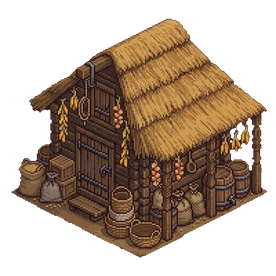
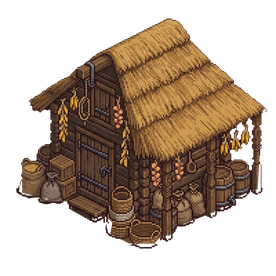
Хутір: стала швидкість селянина, шлях у логіці гри, гойдалка, спрайти без землі
Claude-Session: https://claude.ai/code/session_01QbSGMrSJLDjAsZmBx5QAUW

diff --git a/ads/khutir/game.js b/ads/khutir/game.js
@@ -355,7 +355,7 @@
     if (!lookDraft || lookDraft.u !== villFor) lookDraft = { u: villFor, c: { ...v.c } };
     const c = lookDraft.c, r = (K.routes(s)[villFor] || []);
     let h = '<div class="row" style="justify-content:center;background:linear-gradient(#9FD07A,#6DAF4E)"><canvas id="villPv" width="120" height="140" style="width:120px;height:140px" aria-label="Вигляд селянина"></canvas></div>';
-    h += '<div class="row"><span class="ic">🧺</span><span class="tx"><b>Обходить ' + r.length + ' з ' + K.route(v) + ' будівель · кошик ' + K.basket(v) + '</b><small>обхід за ' + secs(K.tripMs(v)) + ' · усього приніс ' + fmt(v.got || 0) + '. Носить урожай у комору й ставить роботу в черги цих будівель.</small></span></div>';
+    h += '<div class="row"><span class="ic">🧺</span><span class="tx"><b>Обходить ' + r.length + ' з ' + K.route(v) + ' будівель · кошик ' + K.basket(v) + '</b><small>обхід за ' + secs(K.tripOf(s, villFor, r)) + ' · усього приніс ' + fmt(v.got || 0) + '. Носить урожай у комору й ставить роботу в черги цих будівель.</small></span></div>';
     const md = K.mood(v), restS = K.restSpot(s, v);
     h += '<div class="row"><span class="ic">' + (v.rt ? '💤' : md >= 60 ? '😊' : md >= 30 ? '😐' : '😩') + '</span><span class="tx"><b>' + (v.rt ? 'Відпочиває' : 'Настрій: ' + Math.round(md)) + '</b><small>' + (md >= 60 ? 'Працює на 20% швидше' : md >= 30 ? 'Працює звичайно' : 'Втомився: працює на 30% повільніше') + (restS ? '. Коли втомиться, піде відпочити.' : '. Постав лавку, гойдалку чи копицю: без них він не відпочиває.') + '</small><span class="cap"><i style="width:' + md + '%"></i></span></span></div>';
     if (!mine) return h;
@@ -827,6 +827,19 @@
     q.fillStyle = '#2A1C14'; for (const [x, y] of e) q.fillRect(x, y, 1, 1);
     return (decoCache[k] = c);
   }
+  // гойдалка: мотузки й сидіння малюються кодом, щоб рухатись разом із селянином
+  const SW = {"t1": [-2.8, -34.0], "t2": [3.0, -35.7], "s1": [-4.8, -12.3], "s2": [3.3, -15.8], "s3": [6.1, -14.3], "s4": [-1.6, -9.0]};
+  const swingOff = (t) => { const a = Math.sin(t / 420); return [9 * a, 4.5 * a - Math.abs(a) * 1.5]; };
+  function drawSwing(X, Y, z, flip, a) {
+    g.save(); g.translate(X, Y); g.scale((flip ? -1 : 1) * z, z); const [dx, dy] = a, sp = (p) => [p[0] + dx, p[1] + dy];
+    g.lineCap = 'butt'; g.strokeStyle = '#8A6A3F'; g.lineWidth = 1;
+    const lineTo = (t0, q) => { g.beginPath(); g.moveTo(t0[0], t0[1]); g.lineTo(q[0], q[1]); g.stroke(); };
+    lineTo(SW.t2, sp([(SW.s2[0] + SW.s3[0]) / 2, (SW.s2[1] + SW.s3[1]) / 2]));
+    lineTo(SW.t1, sp([(SW.s1[0] + SW.s4[0]) / 2, (SW.s1[1] + SW.s4[1]) / 2]));
+    const c = [SW.s1, SW.s2, SW.s3, SW.s4].map(sp);
+    g.fillStyle = '#B98A5A'; g.strokeStyle = '#5E3C1E'; g.lineWidth = 0.7; g.beginPath(); c.forEach((q, i) => (i ? g.lineTo(q[0], q[1]) : g.moveTo(q[0], q[1]))); g.closePath(); g.fill(); g.stroke();
+    g.restore();
+  }
   function drawDecor(s, x, y, X, Y, z, t) {
     const k = s.d[K.idx(x, y)];
     if (k === 'path' || k === 'stone') return;
@@ -836,6 +849,7 @@
     if (SPR['d_' + k] || k === 'bench') {
       const dr = (s.dr && s.dr[K.idx(x, y)]) || 0, key = k === 'bench' ? 'd_bench' + (dr >= 2 ? 1 : 0) : 'd_' + k;
       if (dr % 2) { g.save(); g.translate(X, Y); g.scale(-1, 1); sprite(key, 0, 2 * z, z); g.restore(); } else sprite(key, X, Y + 2 * z, z);
+      if (k === 'swing') { const on = sitting.has(K.idx(x, y)); let o = on ? swingOff(t) : [0, 0]; if (dr % 2) o = [-o[0], o[1]]; drawSwing(X, Y + 2 * z, z, dr % 2, o); }
       return;
     }
     const im = pxDeco(k), c = 0.75 * z; g.imageSmoothingEnabled = false; g.drawImage(im, X - 16 * c, Y - 36 * c, 32 * c, 40 * c); g.imageSmoothingEnabled = true;
@@ -1004,73 +1018,27 @@
   // де селянин зараз: хата → будівлі маршруту → хата; на кожній будівлі трохи стоїть
   function villPos(s, uid, rts, t, dt) {
     const v = s.vl[uid], h = v && s.b.find((b) => b.id === v.home); if (!h) return null;
-    const r = rts[uid] || [], trip = K.tripMs(v);
-    if (!r.length) { const a = t / 2600 + uid.length; return { x: h.x + 0.45 + Math.cos(a) * 0.25, y: h.y + 0.35 + Math.sin(a) * 0.25, walk: true, dir: Math.cos(a + 1.57) > 0 ? 1 : -1, basket: false, back: Math.cos(a) - Math.sin(a) < 0 }; }
+    const r = rts[uid] || [], F = K.speedOf(v);
     if (v.rt) {
-      const sp = K.restSpot(s, v), rl = sp && restLegs(s, h, sp);
-      if (rl) {
-        const ph = ((v.vp + dt) % trip) / trip;
-        if (ph < 0.2 || ph >= 0.8) { const out = ph < 0.2, q = alongLeg(out ? rl : rl.slice().reverse(), out ? ph / 0.2 : (ph - 0.8) / 0.2); return { x: q[0], y: q[1], walk: true, dir: q[2] - q[3] >= 0 ? 1 : -1, basket: false, back: q[2] + q[3] < 0 }; }
-        const dr = (s.dr && s.dr[sp.i]) || 0; return { x: sp.x, y: sp.y, walk: false, sit: true, swing: sp.k === 'swing', dir: dr % 2 ? -1 : 1, basket: false, back: sp.k === 'bench' && dr >= 2 };
+      const q = K.restPlan(s, v), T = K.tripOf(s, uid, r);
+      if (q) {
+        const ms = (q.len * 1000) / K.WALK / F, tt = (v.vp + dt) % T, out = tt < ms, ret = tt > T - ms;
+        if (out || ret) { const c = alongLeg(out ? q.pts : q.pts.slice().reverse(), out ? tt / ms : (tt - (T - ms)) / ms); return { x: c[0], y: c[1], walk: true, dir: c[2] - c[3] >= 0 ? 1 : -1, basket: false, back: c[2] + c[3] < 0 }; }
+        const dr = (s.dr && s.dr[q.sp.i]) || 0; return { x: q.sp.x, y: q.sp.y, walk: false, sit: true, swing: q.sp.k === 'swing', dir: dr % 2 ? -1 : 1, basket: false, back: q.sp.k === 'bench' && dr >= 2 };
       }
     }
-    const legs = villLegs(s, h, r), segs = legs.length;
-    const f = (((v.vp + dt) % trip) / trip) * segs, i = Math.min(segs - 1, Math.floor(f)), fr = f - i;
-    const w = Math.min(1, fr / 0.75), pos = alongLeg(legs[i], w);
-    return { x: pos[0], y: pos[1], walk: fr < 0.75, dir: pos[2] - pos[3] >= 0 ? 1 : -1, basket: i > 0 && i <= r.length, back: fr < 0.75 && pos[2] + pos[3] < 0 };
-  }
-  // ---------- стежки селянина: обходить будівлі, дерева й тин, любить дороги ----------
-  // Клітинка зайнята, якщо там будівля, дерево, камінь або прикраса (крім доріг).
-  function blockedSet(s) {
-    const o = new Set(); for (const b of s.b) o.add(K.idx(b.x, b.y));
-    for (const i in s.ob) o.add(+i);
-    for (const i in s.d) if (s.d[i] !== 'path' && s.d[i] !== 'stone') o.add(+i);
-    return o;
-  }
-  const edgeShut = (s, x, y, dx, dy) => (dx ? s.f[K.fenceKey(dx > 0 ? x : x - 1, y, 0)] : s.f[K.fenceKey(x, dy > 0 ? y : y - 1, 1)]);
-  // пошук від клітинки до будь-якої з goals; повертає список клітинок або null
-  function findTiles(s, blocked, from, goals) {
-    const start = K.idx(from[0], from[1]), gs = new Set(goals.map((g2) => K.idx(g2[0], g2[1])));
-    if (gs.has(start)) return [from];
-    const cost = new Map([[start, 0]]), prev = new Map(), open = [[0, start]];
-    while (open.length) {
-      let m = 0; for (let i = 1; i < open.length; i++) if (open[i][0] < open[m][0]) m = i;
-      const [c, cur] = open.splice(m, 1)[0]; if (c > cost.get(cur)) continue;
-      if (gs.has(cur)) { const out = []; for (let q = cur; q !== undefined; q = prev.get(q)) out.unshift([q % N, Math.floor(q / N)]); return out; }
-      const x = cur % N, y = Math.floor(cur / N);
-      for (const [dx, dy] of [[1, 0], [-1, 0], [0, 1], [0, -1]]) {
-        const X = x + dx, Y = y + dy; if (X < 0 || Y < 0 || X >= N || Y >= N) continue;
-        const n = K.idx(X, Y); if (blocked.has(n) || edgeShut(s, x, y, dx, dy)) continue;
-        const nc = c + (s.d[n] === 'path' || s.d[n] === 'stone' ? 0.55 : 1);
-        if (nc < (cost.has(n) ? cost.get(n) : 1e9)) { cost.set(n, nc); prev.set(n, cur); open.push([nc, n]); }
-      }
+    const plan = K.walkPlan(s, uid, r), T = plan.ms / F;
+    if (!r.length || !plan.legs.length) { const a = t / 2600 + uid.length; return { x: h.x + 0.45 + Math.cos(a) * 0.25, y: h.y + 0.35 + Math.sin(a) * 0.25, walk: true, dir: Math.cos(a + 1.57) > 0 ? 1 : -1, basket: false, back: Math.cos(a) - Math.sin(a) < 0 }; }
+    // ідемо за часом: кожна ділянка триває стільки, скільки її довжина за сталої швидкості
+    let tt = (v.vp + dt) % T;
+    for (const l of plan.legs) {
+      const w = (l.len * 1000) / K.WALK / F, pz = K.PAUSE / F;
+      if (tt < w) { const c = alongLeg(l.pts, w ? tt / w : 1); return { x: c[0], y: c[1], walk: true, dir: c[2] - c[3] >= 0 ? 1 : -1, basket: l.bk, back: c[2] + c[3] < 0 }; }
+      tt -= w;
+      if (tt < pz) { const e = l.pts[l.pts.length - 1], c0 = l.pts[l.pts.length - 2]; return { x: e[0], y: e[1], walk: false, dir: e[0] - c0[0] - (e[1] - c0[1]) >= 0 ? 1 : -1, basket: l.bk, back: false }; }
+      tt -= pz;
     }
-    return null;
-  }
-  const around = (t, blocked) => [[1, 0], [0, 1], [-1, 0], [0, -1]].map(([a, b]) => [t.x + a, t.y + b]).filter(([x, y]) => x >= 0 && y >= 0 && x < N && y < N && !blocked.has(K.idx(x, y)));
-  const legCache = new Map();
-  function villLegs(s, h, r) {
-    const key = h.id + '|' + r.map((b) => b.id).join() + '|' + s.b.map((b) => b.x + '.' + b.y).join() + '|' + Object.keys(s.ob).length + '|' + Object.keys(s.d).length + '|' + Object.keys(s.f).length;
-    const hit = legCache.get(h.id); if (hit && hit.key === key) return hit.legs;
-    const barn = s.b.find((b) => b.k === 'barn'), stops = r.length && barn ? r.concat([barn]) : r;   // із кошиком — у комору, потім додому
-    const blocked = blockedSet(s), straight = () => { const pts = [h].concat(stops, [h]), o = []; for (let i = 0; i + 1 < pts.length; i++) o.push([[pts[i].x + 0.42, pts[i].y + 0.42], [pts[i + 1].x + 0.42, pts[i + 1].y + 0.42]]); return o; };
-    // виходить із того боку хати, звідки весь обхід найкоротший, і туди ж повертається
-    let legs = null, best = 1e9;
-    for (const door of around(h, blocked)) {
-      const mid = (a, t) => [(a[0] + t.x) / 2, (a[1] + t.y) / 2], o = []; let cur = door, p = mid(door, h), ok = true, total = 0;
-      for (const t of stops.concat([h])) {
-        const goals = t === h ? [door] : around(t, blocked), tiles = goals.length ? findTiles(s, blocked, cur, goals) : null;
-        if (!tiles) { ok = false; break; }
-        total += tiles.length; cur = tiles[tiles.length - 1]; const e = mid(cur, t); o.push([p].concat(tiles, [e])); p = e;
-      }
-      if (ok && total < best) { best = total; legs = o; }
-    }
-    legs = legs || straight(); legCache.set(h.id, { key, legs }); return legs;
-  }
-  function restLegs(s, h, sp) {
-    const blocked = blockedSet(s), door = around(h, blocked)[0], goals = around(sp, blocked); if (!door || !goals.length) return null;
-    const tiles = findTiles(s, blocked, door, goals); if (!tiles) return null;
-    return [[(door[0] + h.x) / 2, (door[1] + h.y) / 2]].concat(tiles, [[sp.x, sp.y]]);
+    const e = plan.legs[0].pts[0]; return { x: e[0], y: e[1], walk: false, dir: 1, basket: false, back: false };
   }
   // точка на ламаній за часткою шляху; два останні числа — напрямок кроку
   function alongLeg(pts, w) {
@@ -1082,11 +1050,11 @@
     }
     return [pts[0][0], pts[0][1], 1, 0];
   }
-  let vpos = [], lights = [], bubbles = [], marks = [];
+  let vpos = [], lights = [], bubbles = [], marks = []; const sitting = new Set();
   function drawVill(p, s, z, t) {
     const X = sx(p.x, p.y), Y = sy(p.x, p.y), v = s.vl[p.uid];
-    const lift = p.sit ? (p.swing ? Math.sin(t / 420) * 3 * z : 0) : 0;
-    drawVillager(g, X + lift, Y - (p.sit ? 6 * z : 0), 1.25 * z, v.c, t, p.walk, p.dir, p.basket, p.back, p.sit);
+    const so = p.swing ? swingOff(t) : [0, 0], flipS = p.swing && p.dir < 0 ? -1 : 1;
+    drawVillager(g, X + so[0] * flipS * z, Y + so[1] * z - (p.sit ? (p.swing ? 10 : 6) * z : 0), 1.25 * z, v.c, t, p.walk, p.dir, p.basket, p.back, p.sit);
     if (p.sit) bubbles.push([X, Y - 8 * z, z * 0.7, '💤', 1]);
     vpos.push({ uid: p.uid, sx: X, sy: Y });
     const nt = darkness(t); if (nt.dark > 0.2) lights.push([X + 7 * z * p.dir, Y - 14 * z, 0.45]);
@@ -1113,8 +1081,8 @@
     const s = view, z = cam.z, t = now(), dt = t - viewAt;
     const bmap = new Map(); for (const b of s.b) bmap.set(K.idx(b.x, b.y), b);
     const bon = K.bonuses(s), rts = K.routes(s), vByTile = new Map();
-    lights = []; vpos = []; bubbles = []; marks = [];
-    for (const uid of s.vo || []) { const p = villPos(s, uid, rts, t, dt); if (!p) continue; p.uid = uid; const key = Math.floor(p.x + 0.5) + Math.floor(p.y + 0.5); if (!vByTile.has(key)) vByTile.set(key, []); vByTile.get(key).push(p); }
+    lights = []; vpos = []; bubbles = []; marks = []; sitting.clear();
+    for (const uid of s.vo || []) { const p = villPos(s, uid, rts, t, dt); if (!p) continue; p.uid = uid; if (p.sit) sitting.add(K.idx(p.x, p.y)); const key = Math.floor(p.x + 0.5) + Math.floor(p.y + 0.5); if (!vByTile.has(key)) vByTile.set(key, []); vByTile.get(key).push(p); }
     const ownedSet = new Set(s.ch);
     const buyable = new Set();
     for (const c of s.ch) { const x = c % K.NC, y = Math.floor(c / K.NC); for (const [dx, dy] of [[1, 0], [-1, 0], [0, 1], [0, -1]]) { const X = x + dx, Y = y + dy; if (X >= 0 && Y >= 0 && X < K.NC && Y < K.NC && !ownedSet.has(Y * K.NC + X)) buyable.add(Y * K.NC + X); } }
@@ -1320,7 +1288,7 @@
   // ================= тест-хук =================
   window.KHUTIR = {
     get S() { return S; }, get view() { return view; }, get mode() { return mode; }, get code() { return code; }, get cam() { return cam; },
-    villLegs(uid) { const s = view, v = s.vl[uid], h = s.b.find((b) => b.id === v.home); return villLegs(s, h, K.routes(s)[uid] || []); }, fenceAtPoint, fenceLine, get draftN() { return draft.size; }, get buildOn() { return buildOn; }, get histN() { return hist.length; }, get redoN() { return redo.length; }, commit, tapTile, warp(ms) { warp += ms; refreshView(true); }, refresh() { refreshView(true); }, startSolo, openShared, showMenu, go, closeSheet,
+    villLegs(uid) { return K.walkPlan(view, uid, K.routes(view)[uid] || []).legs.map((l) => l.pts); }, fenceAtPoint, fenceLine, get draftN() { return draft.size; }, get buildOn() { return buildOn; }, get histN() { return hist.length; }, get redoN() { return redo.length; }, commit, tapTile, warp(ms) { warp += ms; refreshView(true); }, refresh() { refreshView(true); }, startSolo, openShared, showMenu, go, closeSheet,
     pxFrame, K, screenOf(x, y) { return [sx(x, y), sy(x, y)]; }, get vpos() { return vpos; }, darkness, DAY, focus(x, y) { cam.x = wx(x, y); cam.y = wy(x, y); }, get sheetOpen() { return !!sheetFn; }, get placing() { return placing; }, me,
   };
 

diff --git a/ads/khutir/sim.js b/ads/khutir/sim.js
@@ -99,7 +99,9 @@
   const mood = (v) => (v.m === undefined ? 80 : v.m);
   const moodF = (v) => (mood(v) >= 60 ? 1.2 : mood(v) >= 30 ? 1 : 0.7);
   const REST = ['bench', 'swing', 'hay'];
-  const tripMs = (v) => ((8000 + 3000 * route(v)) / (1 + 0.2 * (v.u.sp || 0)) / moodF(v)) * (v.rt ? 3 : 1);
+  // Швидкість стала: час обходу — це довжина справжнього шляху, а не навпаки
+  const WALK = 1.6, PAUSE = 800, SIT = 20000;           // клітинок за секунду, зупинка біля будівлі (мс), відпочинок (мс)
+  const speedOf = (v) => (1 + 0.2 * (v.u.sp || 0)) * moodF(v);
   function restSpots(s) { const o = []; for (const i in s.d || {}) if (REST.indexOf(s.d[i]) >= 0) o.push({ x: i % N, y: Math.floor(i / N), k: s.d[i], i: +i }); return o; }
   // найближче до хати місце відпочинку
   function restSpot(s, v) {
@@ -107,6 +109,69 @@
     if (h) for (const q of restSpots(s)) { const d = Math.abs(q.x - h.x) + Math.abs(q.y - h.y); if (d < bd) { bd = d; best = q; } }
     return best;
   }
+  // ---------- стежки: обходить будівлі, дерева й тин, любить дороги, поля переходить неохоче ----------
+  function blockedSet(s) {
+    const o = new Set(), soft = new Set();
+    for (const b of s.b) (b.k === 'field' ? soft : o).add(idx(b.x, b.y));
+    for (const i in s.ob) o.add(+i);
+    for (const i in s.d) if (s.d[i] !== 'path' && s.d[i] !== 'stone') o.add(+i);
+    return { o, soft };
+  }
+  const edgeShut = (s, x, y, dx, dy) => (dx ? (s.f || {})[fenceKey(dx > 0 ? x : x - 1, y, 0)] : (s.f || {})[fenceKey(x, dy > 0 ? y : y - 1, 1)]);
+  function findTiles(s, bl, from, goals) {
+    const start = idx(from[0], from[1]), gs = new Set(goals.map((q) => idx(q[0], q[1])));
+    if (gs.has(start)) return [from];
+    const cost = new Map([[start, 0]]), prev = new Map(), open = [[0, start]];
+    while (open.length) {
+      let m = 0; for (let i = 1; i < open.length; i++) if (open[i][0] < open[m][0]) m = i;
+      const [c, cur] = open.splice(m, 1)[0]; if (c > cost.get(cur)) continue;
+      if (gs.has(cur)) { const out = []; for (let q = cur; q !== undefined; q = prev.get(q)) out.unshift([q % N, Math.floor(q / N)]); return out; }
+      const x = cur % N, y = Math.floor(cur / N);
+      for (const [dx, dy] of [[1, 0], [-1, 0], [0, 1], [0, -1]]) {
+        const X = x + dx, Y = y + dy; if (X < 0 || Y < 0 || X >= N || Y >= N) continue;
+        const n = idx(X, Y); if (bl.o.has(n) || edgeShut(s, x, y, dx, dy)) continue;
+        const nc = c + (s.d[n] === 'path' || s.d[n] === 'stone' ? 0.55 : bl.soft.has(n) ? 3 : 1);
+        if (nc < (cost.has(n) ? cost.get(n) : 1e9)) { cost.set(n, nc); prev.set(n, cur); open.push([nc, n]); }
+      }
+    }
+    return null;
+  }
+  const around = (t, bl) => [[1, 0], [0, 1], [-1, 0], [0, -1]].map(([a, b]) => [t.x + a, t.y + b]).filter(([x, y]) => x >= 0 && y >= 0 && x < N && y < N && !bl.o.has(idx(x, y)));
+  const near = (a, t) => [a[0] + (t.x - a[0]) * 0.22, a[1] + (t.y - a[1]) * 0.22];
+  const lenOf = (pts) => { let l = 0; for (let i = 0; i + 1 < pts.length; i++) l += Math.hypot(pts[i + 1][0] - pts[i][0], pts[i + 1][1] - pts[i][1]); return l; };
+  const planCache = new Map();
+  // обхід: хата → будівлі → комора → хата. Недосяжну зупинку пропускає, решта маршруту лишається.
+  function walkPlan(s, uid, r) {
+    const v = s.vl[uid], h = v && s.b.find((b) => b.id === v.home); if (!h) return { legs: [], ms: 8000 };
+    const key = s.seed + '|' + r.map((b) => b.id).join() + '|' + s.b.map((b) => b.x + '.' + b.y).join() + '|' + Object.keys(s.ob).length + '|' + Object.keys(s.d).length + '|' + Object.keys(s.f || {}).length;
+    const hit = planCache.get(uid); if (hit && hit.key === key) return hit;
+    const barn = s.b.find((b) => b.k === 'barn'), stops = r.length && barn ? r.concat([barn]) : r, bl = blockedSet(s);
+    let legs = [], best = 1e9;
+    for (const door of around(h, bl)) {
+      const o = []; let cur = door, p = near(door, h), total = 0, carry = false;
+      for (const t of stops) {
+        const goals = around(t, bl), tiles = goals.length ? findTiles(s, bl, cur, goals) : null;
+        if (!tiles) continue;
+        cur = tiles[tiles.length - 1]; const e = near(cur, t), pts = [p].concat(tiles, [e]);
+        o.push({ pts, len: lenOf(pts), bk: carry && t !== barn }); total += lenOf(pts); p = e; carry = t === barn ? false : true;
+      }
+      const back = findTiles(s, bl, cur, [door]);
+      if (!back) continue;
+      const end = near(door, h), pts = [p].concat(back, [end]); o.push({ pts, len: lenOf(pts), bk: false }); total += lenOf(pts);
+      if (total < best) { best = total; legs = o; }
+    }
+    const ms = legs.reduce((a, l) => a + (l.len / WALK) * 1000 + PAUSE, 0) || 8000, plan = { key, legs, ms };
+    planCache.set(uid, plan); return plan;
+  }
+  function restPlan(s, v) {
+    const h = s.b.find((b) => b.id === v.home), sp = restSpot(s, v); if (!h || !sp) return null;
+    const bl = blockedSet(s), door = around(h, bl)[0], goals = around(sp, bl); if (!door || !goals.length) return null;
+    const tiles = findTiles(s, bl, door, goals); if (!tiles) return null;
+    const pts = [near(door, h)].concat(tiles, [[sp.x, sp.y]]); return { sp, pts, len: lenOf(pts) };
+  }
+  const restMs = (s, v) => { const q = restPlan(s, v); return q ? (2 * q.len * 1000) / WALK / speedOf(v) + SIT : SIT; };
+  // час обходу за стану зараз
+  function tripOf(s, uid, r) { const v = s.vl[uid]; return v.rt ? restMs(s, v) : walkPlan(s, uid, r).ms / speedOf(v); }
   function restDone(s, v) { const kinds = new Set(restSpots(s).map((q) => q.k)).size; v.m = Math.min(100, mood(v) + 40 + 20 * kinds); v.rt = 0; }
   const vupCost = (v, k) => { const L = v.u[k] || 0; return { c: Math.round(80 * Math.pow(1.9, L)), pl: L >= 1 ? 3 * L : 0 }; };
   // хто що обходить: по черзі приходу, найближчі вільні будівлі до хати
@@ -260,7 +325,8 @@
     let t = Math.max(s.t, now - MAX_AWAY);
     const bon = bonuses(s), dur = new Map(), prod = s.b.filter((b) => B[b.k].d);
     for (const b of prod) dur.set(b.id, durOf(b, bon));
-    const rts = routes(s), vs = (s.vo || []).map((u) => [s.vl[u], rts[u]]).filter(([v, r]) => v && v.home && r.length);
+    const rts = routes(s), vs = (s.vo || []).map((u) => [s.vl[u], rts[u], u]).filter(([v, r]) => v && v.home && r.length);
+    const T = (v, r, u) => tripOf(s, u, r);
     for (let guard = 0; guard < 3e6; guard++) {
       kick(s);
       if (t >= now) break;
@@ -268,17 +334,17 @@
       for (const b of prod) if (b.p >= 0) m = Math.min(m, dur.get(b.id) - b.p);
       // селянину є сенс іти, лише якщо щось росте або щось чекає в будівлях маршруту
       const busy = m !== Infinity;
-      for (const [v, r] of vs) if (busy || r.some((b) => b.buf)) m = Math.min(m, tripMs(v) - v.vp);
+      for (const [v, r, u] of vs) if (busy || v.rt || r.some((b) => b.buf)) m = Math.min(m, T(v, r, u) - v.vp);
       if (m === Infinity) break;
       const step = Math.min(Math.max(m, 0), now - t);
       for (const b of prod) if (b.p >= 0) b.p += step;
       for (const [v] of vs) v.vp += step;
       t += step;
       for (const b of prod) if (b.p >= 0 && b.p >= dur.get(b.id) - 1e-6) { b.buf += outOf(b)[1]; b.p = -1; }
-      for (const [v, r] of vs) if (v.vp >= tripMs(v) - 1e-6) { v.vp = 0; if (v.rt) restDone(s, v); else trip(s, v, r); }
+      for (const [v, r, u] of vs) if (v.vp >= T(v, r, u) - 1e-6) { v.vp = 0; if (v.rt) restDone(s, v); else trip(s, v, r); }
     }
     // поки нічого не росте й нічого не чекає — селянин удома, але годинник обходу йде далі для показу
-    if (t < now) for (const [v] of vs) v.vp = (v.vp + (now - t)) % tripMs(v);
+    if (t < now) for (const [v, r, u] of vs) v.vp = (v.vp + (now - t)) % T(v, r, u);
     s.t = now;
     return s;
   }
@@ -544,7 +610,7 @@
       case 'vup': {
         const v = s.vl && s.vl[a.uid]; if (!v || !VUP[a.k]) return fail('Нема');
         const cost = vupCost(v, a.k); if (!canAfford(s, cost)) return fail('Треба ' + fmtCost(cost));
-        pay(s, cost); v.u[a.k] = (v.u[a.k] || 0) + 1; v.vp = Math.min(v.vp, tripMs(v)); log(s, v.n, 'отримав(ла) ' + VUP[a.k].n.toLowerCase() + ' ' + v.u[a.k] + '-го рівня');
+        pay(s, cost); v.u[a.k] = (v.u[a.k] || 0) + 1; log(s, v.n, 'отримав(ла) ' + VUP[a.k].n.toLowerCase() + ' ' + v.u[a.k] + '-го рівня');
         return res;
       }
       case 'movehome': {
@@ -571,6 +637,6 @@
     return '';
   }
 
-  const api = { mood, moodF, restSpot, fenceKey, VER, MID, CROP, DECOR, outOf, qMax, beauty, tier, tierNeed, beautyBonus, market, LOOK, VUP, routes, route, basket, tripMs, vupCost, addVillager, kick, N, CH, NC, RES, B, ORDER, create, advance, act, why, storeCap, xpNeed, buildCost, upCost, hireCost, storeCost, chunkCost, capOf, durOf, bonuses, slots, owned, chunkOf, idx, at, count, ROCK, fmtCost, canAfford, MAX_AWAY };
+  const api = { mood, moodF, restSpot, restPlan, walkPlan, tripOf, speedOf, WALK, PAUSE, SIT, fenceKey, VER, MID, CROP, DECOR, outOf, qMax, beauty, tier, tierNeed, beautyBonus, market, LOOK, VUP, routes, route, basket, vupCost, addVillager, kick, N, CH, NC, RES, B, ORDER, create, advance, act, why, storeCap, xpNeed, buildCost, upCost, hireCost, storeCost, chunkCost, capOf, durOf, bonuses, slots, owned, chunkOf, idx, at, count, ROCK, fmtCost, canAfford, MAX_AWAY };
   if (typeof module !== 'undefined' && module.exports) module.exports = api; else root.KhutirSim = api;
 })(typeof window !== 'undefined' ? window : globalThis);

diff --git a/bots/local-sim/khutir-test.js b/bots/local-sim/khutir-test.js
@@ -89,7 +89,7 @@ const tapTile = async (p, x, y) => { await p.evaluate(([x, y]) => { KHUTIR.focus
   check("«Назад» закрив шторку й лишив у грі", await p.evaluate(() => !!window.KHUTIR && !KHUTIR.sheetOpen && KHUTIR.mode === "solo"));
   // тин лежить на межі: клітинка під ним вільна, а селянин його обходить
   check("тин не займає клітинку", await p.evaluate(() => { const v = KHUTIR.view; return Object.keys(v.f).length > 0 && !Object.values(v.d).includes("fence"); }));
-  const walk = await p.evaluate(() => { const uid = Object.keys(KHUTIR.view.vl)[0], s = KHUTIR.view, busy = new Set(s.b.map((b) => b.x + ":" + b.y)), legs = KHUTIR.villLegs(uid); let bad = 0, n = 0; for (const l of legs) for (const q of l.slice(1, -1)) { n++; if (busy.has(q[0] + ":" + q[1])) bad++; } return [n, bad]; });
+  const walk = await p.evaluate(() => { const uid = Object.keys(KHUTIR.view.vl)[0], s = KHUTIR.view, busy = new Set(s.b.filter((b) => b.k !== "field").map((b) => b.x + ":" + b.y)), legs = KHUTIR.villLegs(uid); let bad = 0, n = 0; for (const l of legs) for (const q of l.slice(1, -1)) { n++; if (busy.has(q[0] + ":" + q[1])) bad++; } return [n, bad]; });
   check("селянин не йде крізь будівлі", walk[0] > 0 && walk[1] === 0, JSON.stringify(walk));
   // тин прибирається дотиком по самому тину
   const fp = await p.evaluate(() => { const k = +Object.keys(KHUTIR.view.f)[3], e = k % 2, i = (k - e) / 2, x = i % 48, y = Math.floor(i / 48); KHUTIR.focus(x, y); const a = KHUTIR.screenOf(x + 0.5, y + 0.5), b = KHUTIR.screenOf(x - 0.5, y + 0.5); return [(a[0] + b[0]) / 2, (a[1] + b[1]) / 2 - 8 * KHUTIR.cam.z, Object.keys(KHUTIR.view.f).length, x, y, e]; });
@@ -118,6 +118,9 @@ const tapTile = async (p, x, y) => { await p.evaluate(([x, y]) => { KHUTIR.focus
     const spot = [20, 23]; K.act(s, { t: "deco", k: "hay", x: spot[0], y: spot[1] }, t, "V"); const v = s.vl.me; v.m = 31; t += 3600e3; K.advance(s, t); return [q1, s.st.wheat < 50, v.m]; });
   check("селянин сам поставив млин у чергу", vq[0] > 0 && vq[1], JSON.stringify(vq));
   check("настрій відновлюється відпочинком", vq[2] > 31, String(vq[2]));
+  // швидкість стала: час обходу пропорційний довжині шляху
+  const sp = await p.evaluate(() => { const K = KHUTIR.K, s = KHUTIR.view, u = Object.keys(s.vl)[0], r = K.routes(s)[u], pl = K.walkPlan(s, u, r), len = pl.legs.reduce((a, l) => a + l.len, 0); return [pl.ms, (len / K.WALK) * 1000 + K.PAUSE * pl.legs.length]; });
+  check("час обходу = довжина шляху / швидкість", Math.abs(sp[0] - sp[1]) < 1, JSON.stringify(sp));
   // торговець
   await p.evaluate(() => { KHUTIR.commit({ t: "build", k: "market", x: 24, y: 24 }); const t = Date.now() + 0, every = 3 * 3600e3, ph = t % every; if (ph >= 80 * 60e3) KHUTIR.warp(every - ph + 60e3); KHUTIR.S.st.wheat = 60; KHUTIR.refresh(); });
   const m = await p.evaluate(() => KHUTIR.K.market(KHUTIR.view, KHUTIR.view.t));

diff --git a/upd.md b/upd.md
@@ -24,6 +24,13 @@
 
 ---
 
+## 2026-11-02 (62) — Хутір: стала швидкість селянина, гойдалка
+
+- Швидкість абсолютна (1,6 клітинки за секунду, чоботи й настрій її змінюють), тож час обходу тепер залежить від довжини реального шляху. Пошук шляху перенесено в `sim.js`.
+- Недосяжна зупинка більше не вмикає прямий шлях крізь будівлі: вона просто пропускається. Поля можна перетинати, але неохоче. Селянин не заходить у будівлю, а стає біля неї.
+- Гойдалка: мотузки й сидіння рухаються разом із селянином.
+- Зі спрайтів комори й ринку прибрано намальовану землю.
+
 ## 2026-11-02 (61) — Хутір: селянин веде чергу й відпочиває
 
 - Селянин після обходу сам ставить у чергу будівлі свого маршруту, якщо є сировина. У будівлі це можна вимкнути.
